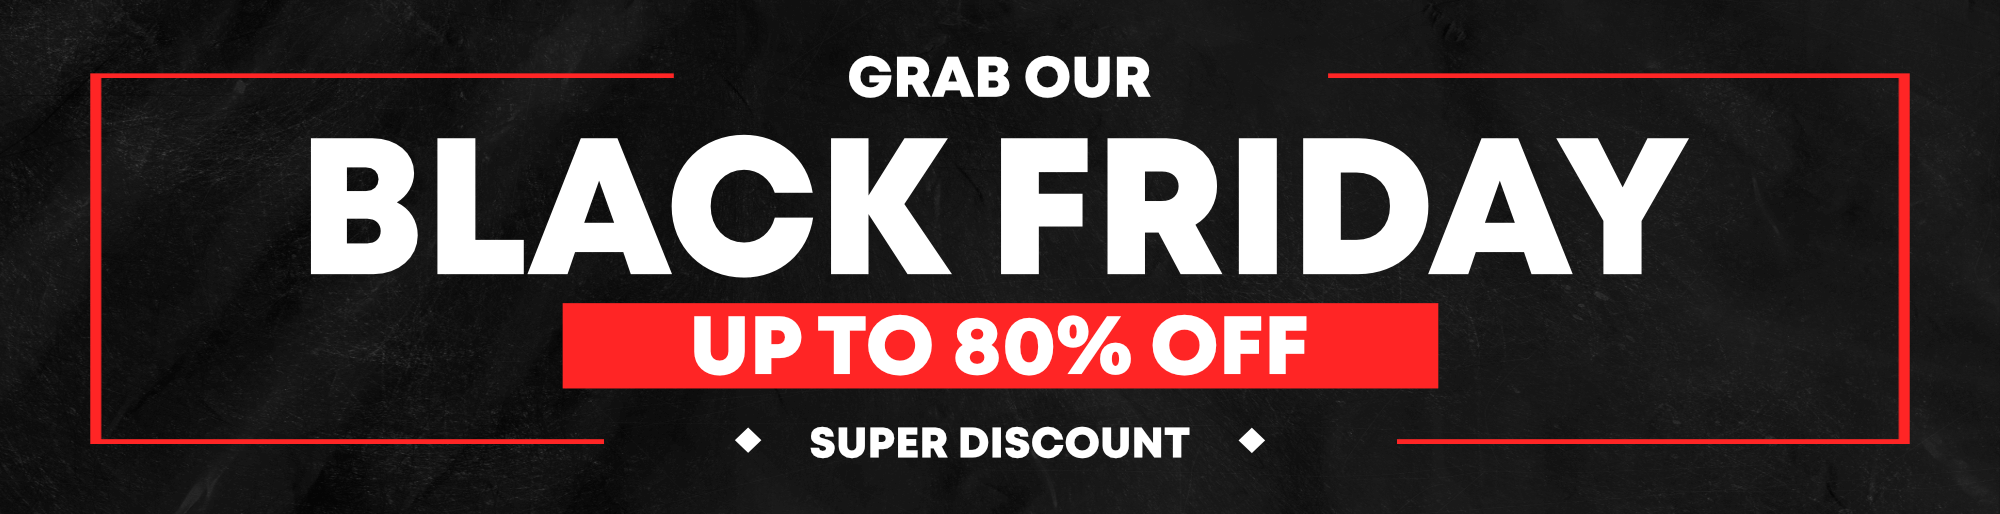
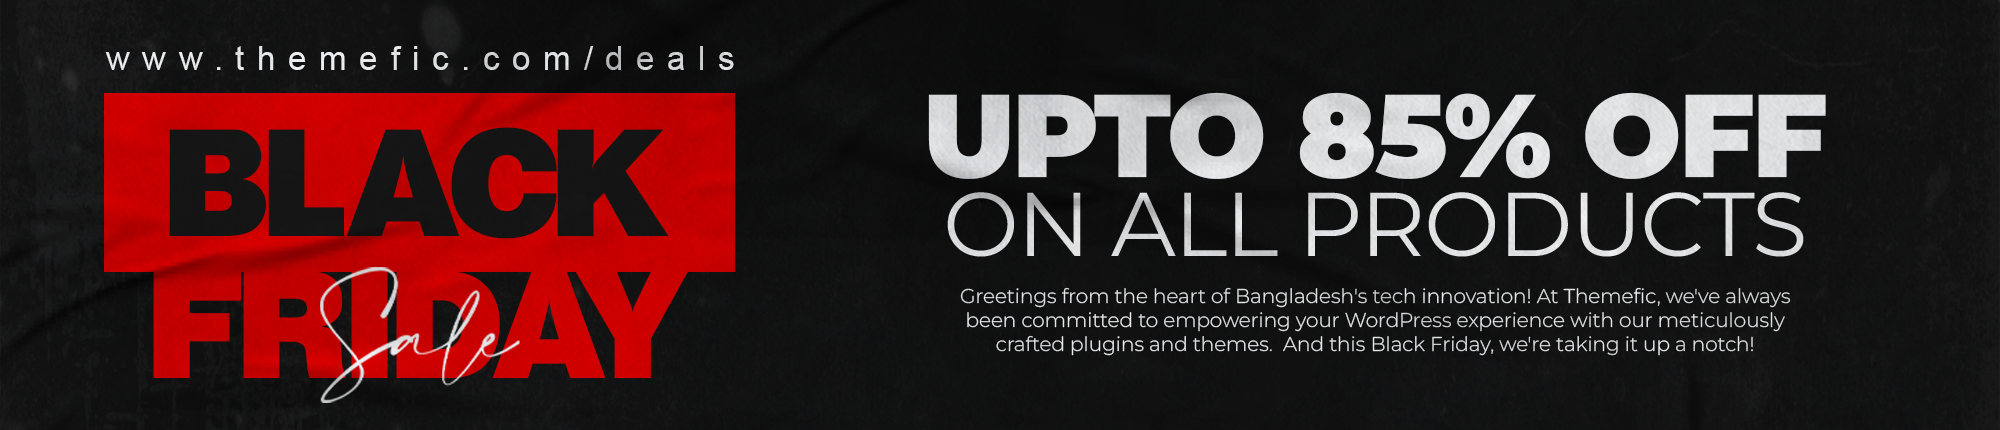
database addon export to csv acces control issue fixed and black friday bannar updated

diff --git a/addons/database/assets/js/database-admin.js b/addons/database/assets/js/database-admin.js
@@ -11,6 +11,46 @@
             alert('Please select a form first');
         } 
       }); 
+
+
+      // Export as CSV using jquery ajax
+      $(".uacf7-db-export-csv").click(function(e){
+        e.preventDefault(); 
+        var $this = $(this); 
+        var title = $(this).html(); 
+        // get form id form current url param "form_id"
+        var form_id = window.location.search.split('form_id=')[1]; 
+        var form_name = $(this).data("form_name");
+        $this.append('...');
+        $.ajax({
+            url: database_admin_url.ajaxurl,
+            type: 'post',
+            data: {
+                action: 'uacf7_ajax_database_export_csv',
+                ajax_nonce: database_admin_url.nonce,
+                form_id: form_id,
+                form_name: form_name,
+            },
+            success: function (response) {  
+
+              if(response.status === true){
+                var blob = new Blob([response.csv]);
+                var link = document.createElement('a');
+                link.href = window.URL.createObjectURL(blob);
+                link.download = ''+response.file_name+'.csv';
+                document.body.appendChild(link);
+                link.click();
+                document.body.removeChild(link);
+               
+              }
+              
+              $this.html(title); 
+            }
+        });
+      }); 
+
+
+      // UACF7 Db View
       $(".uacf7-db-view").click(function(e){ 
         e.preventDefault(); 
         var $this = $(this);

diff --git a/addons/database/database.php b/addons/database/database.php
@@ -18,7 +18,7 @@ class UACF7_DATABASE {
         add_action( 'wpcf7_before_send_mail', array($this, 'uacf7_save_to_database' ) );     
         add_action( 'admin_menu', array( $this, 'uacf7_add_db_menu' ) );   
         add_action( 'wp_ajax_uacf7_ajax_database_popup', array( $this, 'uacf7_ajax_database_popup' ) );  
-        add_action( 'init', array( $this, 'uacf7_database_export_csv' ) );  
+        add_action( 'wp_ajax_uacf7_ajax_database_export_csv', array( $this, 'uacf7_ajax_database_export_csv' ) );   
         add_action( 'admin_init', array( $this, 'uacf7_create_database_table' ) ); 
         // add_filter( 'wpcf7_load_js', '__return_false' ); 
        
@@ -81,14 +81,10 @@ class UACF7_DATABASE {
 
     public function uacf7_create_database_page(){
       
-        $form_id  = empty($_GET['form_id']) ? 0 : (int) $_GET['form_id']; 
-        $csv  = empty($_GET['csv']) ? 0 :  $_GET['csv']; 
+        $form_id  = empty($_GET['form_id']) ? 0 : (int) $_GET['form_id'];  
         $pdf  = empty($_GET['pdf']) ? 0 :  $_GET['pdf']; 
         $data_id  = empty($_GET['data_id']) ? 0 :  $_GET['data_id'];
- 
-        if(!empty($form_id) && $csv == true ){
-            $this->uacf7_database_export_csv($form_id,  $csv); // export as CSV
-        }  
+  
         
         if( !empty($form_id)){
             $uacf7_ListTable = new uacf7_form_List_Table();
@@ -334,102 +330,93 @@ class UACF7_DATABASE {
     * Export CSV 
     */
 
-    public function uacf7_database_export_csv(){
-        if( isset($_REQUEST['csv']) && ( $_REQUEST['csv'] == true && $_REQUEST['form_id'] !='' ) ) {
-            $today = date("Y-m-d");
-        
+    public function uacf7_ajax_database_export_csv(){
+        if ( !wp_verify_nonce($_POST['ajax_nonce'], 'uacf7-form-database-admin-nonce')) {
+            exit(esc_html__("Security error", 'ultimate-addons-cf7'));
+        } 
+ 
+        global $wpdb; 
+        $form_id = intval($_POST['form_id']); 
+        $today = date("Y-m-d");
+        $upload_dir    = wp_upload_dir();
+        $dir = $upload_dir['baseurl'];
+        $replace_dir = '/uacf7-uploads/';  
+        $file_name = get_the_title( $form_id); 
+        $file_name = str_replace(" ","-", $file_name);  
+        $form_data = $wpdb->get_results($wpdb->prepare("SELECT * FROM ".$wpdb->prefix."uacf7_form WHERE form_id = %d ", $form_id ));
+         
+        $list = []; 
+        $count = 0;
+       
+        foreach($form_data as $fkey => $fdata){ 
+            $ContactForm = WPCF7_ContactForm::get_instance( $fdata->form_id );
+            $form_fields = $ContactForm->scan_form_tags();
+            $fields = []; 
+            $data = json_decode($fdata->form_value);
+            foreach($form_fields as $field){
             
-            global $wpdb; 
-            $upload_dir    = wp_upload_dir();
-            $dir = $upload_dir['baseurl'];
-            $replace_dir = '/uacf7-uploads/';
-           
-            $form_id = intval($_REQUEST['form_id']);
-            $file_name = get_the_title( $_REQUEST['form_id']);
-            $file_name = str_replace(" ","-", $file_name); 
-           
-
-            $form_data = $wpdb->get_results($wpdb->prepare("SELECT * FROM ".$wpdb->prefix."uacf7_form WHERE form_id = %d ", $form_id ));
-
-           
-            $now = gmdate("D, d M Y H:i:s");
-            header("Expires: Tue, 03 Jul 2001 06:00:00 GMT");
-            header("Cache-Control: max-age=0, no-cache, must-revalidate, proxy-revalidate");
-            header("Last-Modified: {$now} GMT");
-            
-            // force download
-            header("Content-Description: File Transfer");
-            header("Content-Encoding: UTF-8");
-            header("Content-Type: text/csv; charset=UTF-8");
-            header("Content-Type: application/force-download");
-            header("Content-Type: application/octet-stream");
-            header("Content-Type: application/download");
-
-            // disposition / encoding on response body
-            header("Content-Disposition: attachment;filename=".$file_name."-".$today.".csv");
-            header("Content-Transfer-Encoding: binary");
-            ob_start();
-             
-            $list = []; 
-            $count = 0;
-           
-            foreach($form_data as $fkey => $fdata){ 
-                $ContactForm = WPCF7_ContactForm::get_instance( $fdata->form_id );
-                $form_fields = $ContactForm->scan_form_tags();
-                $fields = []; 
-                $data = json_decode($fdata->form_value);
-                foreach($form_fields as $field){
-                
-                    if($field['type'] != 'submit' && $field['type'] !='uacf7_step_start' && $field['type'] !='uacf7_step_end' && $field['type'] !='uarepeater'  && $field['type'] == 'uacf7_conversational_start' && $field['type'] == 'uacf7_conversational_end' ){
-                        $fields[$field['name']] = '';
-                    }
+                if($field['type'] != 'submit' && $field['type'] !='uacf7_step_start' && $field['type'] !='uacf7_step_end' && $field['type'] !='uarepeater'  && $field['type'] == 'uacf7_conversational_start' && $field['type'] == 'uacf7_conversational_end' ){
+                    $fields[$field['name']] = '';
                 }
-                foreach($data as $key => $value){  
-                    $fields[$key] = $value; 
-                } 
-                $list_head = [];
-                $list_data = [];
-                foreach($fields as $key => $value){
-                    if($fkey == 0){
-                        $list_head[] = $key;
-                    }
-                    if(is_array($value)){ 
-                        $value = implode(", ",$value);
-                    }
-                    if (strstr($value, $replace_dir)) { 
-                        $value = str_replace($replace_dir,"",$value);
-                        $value = $dir.$replace_dir.$value;
-                    } 
-                    $list_data[] = $value;
-                }
-                if($fkey == 0){
-                    $list_head[] = 'Date';
-                    $list[] = $list_head;
-                }
-                $list_data[] = $fdata->form_date;
-                $list[] = $list_data;
-                
-                
-            } 
-            $fp = fopen('php://output', 'w');
-            
-            foreach ($list as $fields) {
-                fputcsv($fp, $fields);
             }
-            echo ob_get_clean();
-            fclose($fp);
-            die();
-        }
+            foreach($data as $key => $value){  
+                $fields[$key] = $value; 
+            } 
+            $list_head = [];
+            $list_data = [];
+            foreach($fields as $key => $value){
+                if($fkey == 0){
+                    $list_head[] = $key;
+                }
+                if(is_array($value)){ 
+                    $value = implode(", ",$value);
+                }
+                if (strstr($value, $replace_dir)) { 
+                    $value = str_replace($replace_dir,"",$value);
+                    $value = $dir.$replace_dir.$value;
+                } 
+                $list_data[] = $value;
+            }
+            if($fkey == 0){
+                $list_head[] = 'Date';
+                $list[] = $list_head;
+            }
+            $list_data[] = $fdata->form_date;
+            $list[] = $list_data;
+            
+            
+        }  
+        // Set the headers
+        ob_start();
+        header('Content-Type: text/csv');
+        header('Content-Disposition: attachment; filename="'.$file_name.'"');
+        $fp = fopen('php://output', 'w');
+            
+        foreach ($list as $fields) {
+            fputcsv($fp, $fields);
+        } 
+        fclose($fp);
+        $csv_data = ob_get_clean();
+        $data = [
+            'status' => true,
+            'file_name' => $file_name,
+            'csv' => $csv_data,
+        ];
+
+        wp_send_json($data); 
+        wp_die(); 
+                
     }
+ 
 }
 
-    /*
-    * WP_List_Table Class Call
-    */
+/*
+* WP_List_Table Class Call
+*/
 
-    if( ! class_exists( 'WP_List_Table' ) ) {
-        require_once( ABSPATH . 'wp-admin/includes/class-wp-list-table.php' );
-    }
+if( ! class_exists( 'WP_List_Table' ) ) {
+    require_once( ABSPATH . 'wp-admin/includes/class-wp-list-table.php' );
+}
 
 /*
 * extends uacf7_form_List_Table class will create the page to load the table
@@ -685,7 +672,7 @@ class uacf7_form_List_Table extends WP_List_Table{
 		echo "</select>\n";
 
 		submit_button( __( 'Apply' ), 'action', '', false, array( 'id' => "doaction $two" ) );
-        echo "<a href='".esc_html($_SERVER['REQUEST_URI'])."&csv=true' style=' margin-left:5px;' class='button'> Export CSV</a>"; 
+        echo "<button  style=' margin-left:5px;' class='button uacf7-db-export-csv'> Export CSV</button>"; 
 		echo "\n";
 	}
 

diff --git a/inc/functions.php b/inc/functions.php
@@ -213,8 +213,8 @@ function uacf7_add_wrapper_to_cf7_form($properties, $cfform) {
  */
 if(!function_exists('uacf7_black_friday_20222_admin_notice')){
 	function uacf7_black_friday_20222_admin_notice(){
-		$deal_link =sanitize_url('https://themefic.com/go/uacf7-bf-deal');
-		// $get_current_screen = get_current_screen();  
+		$deal_link =sanitize_url('https://themefic.com/deals/');
+		$get_current_screen = get_current_screen();  
 		if(!isset($_COOKIE['uacf7_dismiss_admin_notice']) && $get_current_screen->base == 'dashboard'){ 
             ?>
             <style> 
@@ -225,10 +225,7 @@ if(!function_exists('uacf7_black_friday_20222_admin_notice')){
                     padding: 7px;
                     position: relative;
                     z-index: 10;
-                }
-                .tf_black_friday_20222_admin_notice { 
-						max-width: 585px;
-                }
+                } 
                 .tf_black_friday_20222_admin_notice button:before {
                     color: #fff !important;
                 }
@@ -238,7 +235,7 @@ if(!function_exists('uacf7_black_friday_20222_admin_notice')){
             </style>
             <div class="notice notice-success tf_black_friday_20222_admin_notice"> 
                 <a href="<?php echo $deal_link; ?>" target="_blank" >
-                    <img  style="width: 100%; height: 150px;" src="<?php echo UACF7_URL ?>/assets/img/BLACK_FRIDAY_BACKGROUND_GRUNGE_notice.png" alt="">
+                    <img  style="width: 100%;" src="<?php echo UACF7_URL ?>/assets/img/BLACK_FRIDAY_BACKGROUND_GRUNGE_notice.png" alt="">
                 </a> 
                 <button type="button" class="notice-dismiss tf_black_friday_notice_dismiss"><span class="screen-reader-text"><?php echo __('Dismiss this notice.', 'ultimate-addons-cf7' ) ?></span></button>
             </div>
@@ -267,7 +264,7 @@ if(!function_exists('uacf7_black_friday_20222_admin_notice')){
 		}
 		
 	} 
-	if (strtotime('2022-12-01') > time()) {
+	if (strtotime('2023-12-01') > time()) {
 		add_action( 'admin_notices', 'uacf7_black_friday_20222_admin_notice' );  
 	}   
 }
@@ -282,11 +279,11 @@ add_action( 'wp_ajax_uacf7_black_friday_notice_dismiss_callback', 'uacf7_black_f
  
 if(!function_exists('uacf7_black_friday_2022_callback')){
 	 
-	if (strtotime('2022-12-01') > time()) { 
+	if (strtotime('2023-12-01') > time()) { 
 		add_action( 'wpcf7_admin_misc_pub_section', 'uacf7_black_friday_2022_callback' );
 	}    
 	function uacf7_black_friday_2022_callback(){
-		$deal_link =sanitize_url('https://themefic.com/go/uacf7-bf-deal');
+		$deal_link =sanitize_url('https://themefic.com/deals/');
 	?> 
 		<style> 
 			.back_friday_2022_preview a:focus {
@@ -315,7 +312,7 @@ if(!function_exists('uacf7_black_friday_2022_callback')){
         <?php if(!isset($_COOKIE['uacf7_dismiss_post_notice'])): ?>
 		<div class="back_friday_2022_preview" style="text-align: center; overflow: hidden;">
 			<a href="<?php echo $deal_link; ?>" target="_blank" >
-				<img  style="width: 100%; transform: scale(1.3);" src="<?php echo UACF7_URL ?>/assets/img/BLACK_FRIDAY_BACKGROUND_GRUNGE.jpg" alt="">
+				<img  style="width: 100%;" src="<?php echo UACF7_URL ?>/assets/img/BLACK_FRIDAY_BACKGROUND_GRUNGE.png" alt="">
 			</a>  
             <button type="button" class="notice-dismiss tf_black_friday_cf7_notice_dismiss"><span class="screen-reader-text">Dismiss this notice.</span></button>
 		</div>
